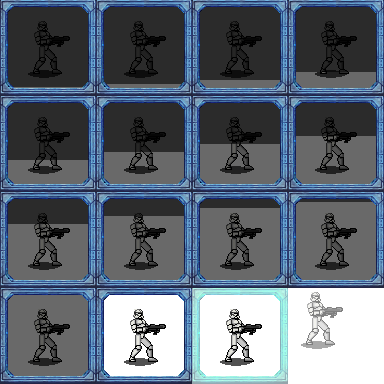
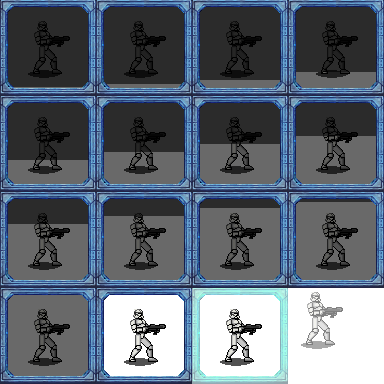
Added suns.

Changed region(s): [[0.8125, 0.5312, 0.9375, 0.6875], [0.8125, 0.3125, 0.9375, 0.4375], [0.8125, 0.0625, 0.9062, 0.1875]]

diff --git a/main/unitentities.js b/main/unitentities.js
@@ -284,8 +284,8 @@ LukeProjectile.prototype.constructor = LukeProjectile;
 // SUN (techinically a projectile, but not normally used as such)
 
 function Sun(game, x, y) {
-    var anim = new Animation(ASSET_MANAGER.getAsset("./main/img/enemy/luke/LukeIdle.png"), 0, -10, 64, 76, 0.2, 10, true, true, false, false, true);
-    Projectile.call(this, game, x, y - 12, 0, 0, anim);
+    var anim = new Animation(ASSET_MANAGER.getAsset("./main/img/ally/sun.png"), 0, 0, 64, 64, 0.2, 14, false, true, false, false, false);
+    Projectile.call(this, game, x, y, 0, 0, anim);
 }
 
 Sun.prototype = new Projectile();

diff --git a/main/main.js b/main/main.js
@@ -112,6 +112,7 @@ ASSET_MANAGER.queueDownload("./main/img/ally/stormt.png");
 ASSET_MANAGER.queueDownload("./main/img/ally/vader.png");
 ASSET_MANAGER.queueDownload("./main/img/ally/lightning.png");
 ASSET_MANAGER.queueDownload("./main/img/expl.png");
+ASSET_MANAGER.queueDownload("./main/img/ally/sun.png");
 
 ASSET_MANAGER.downloadAll(function () {
     console.log("Downloading...");
